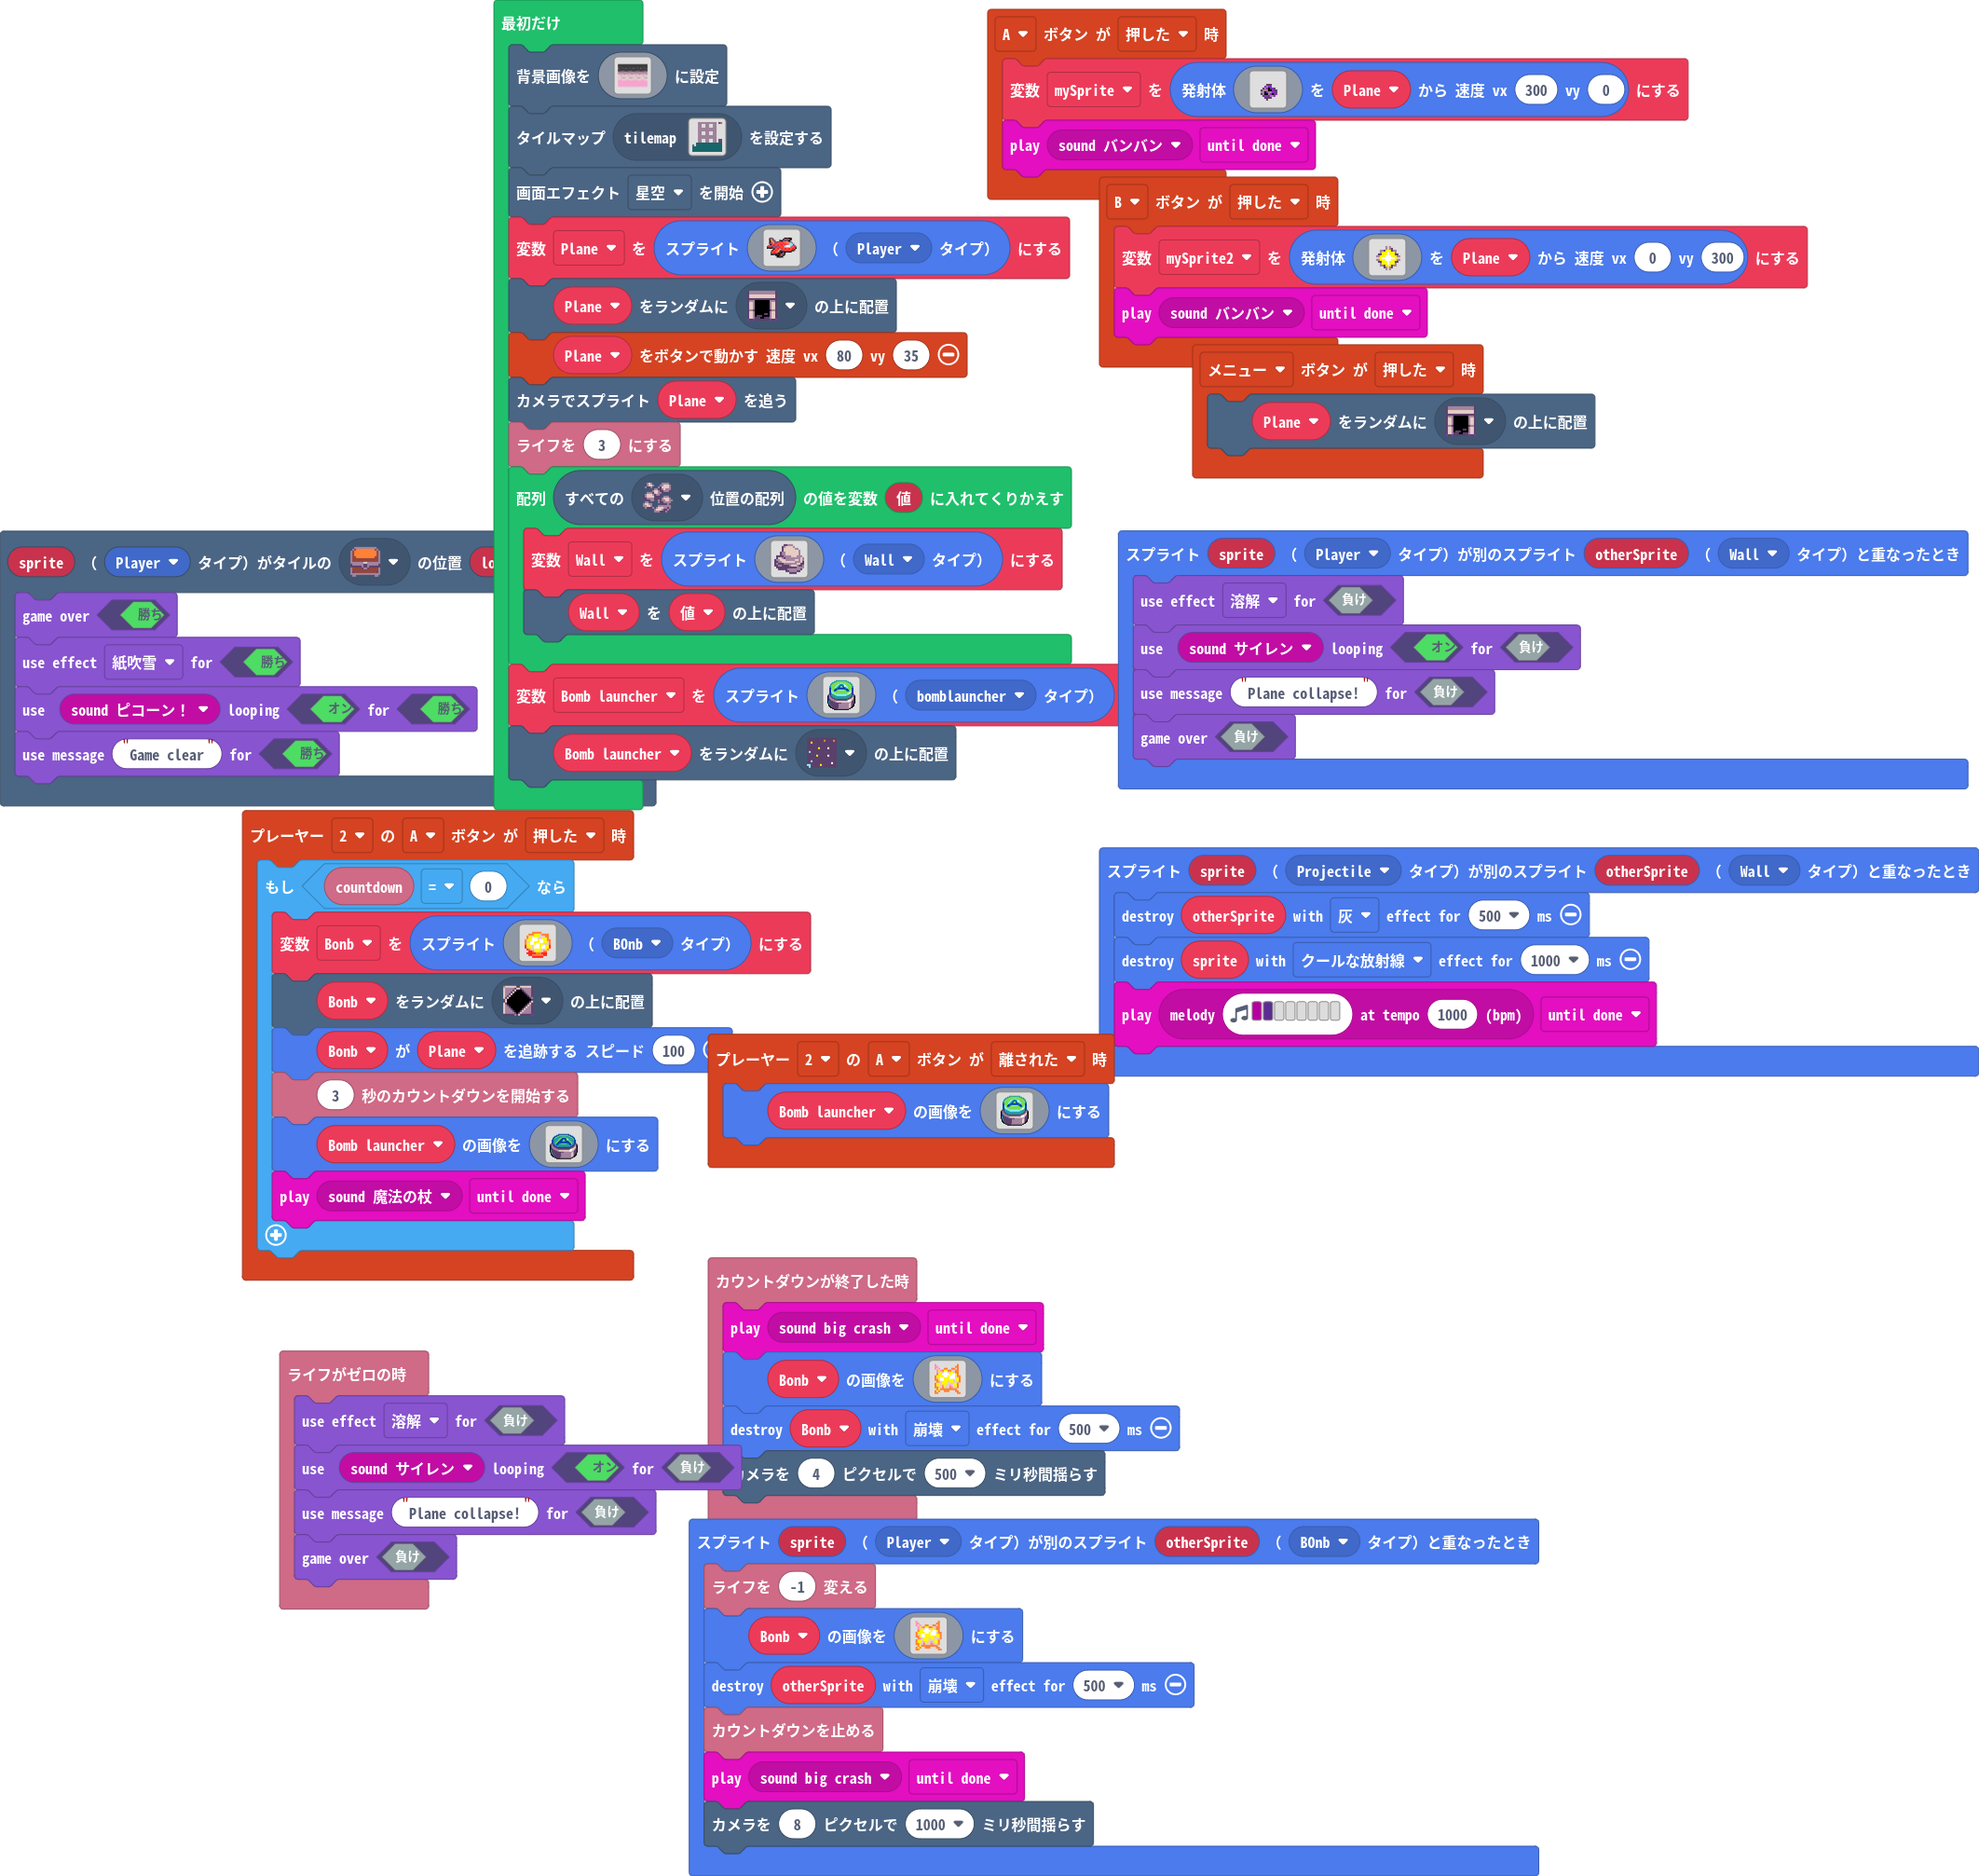
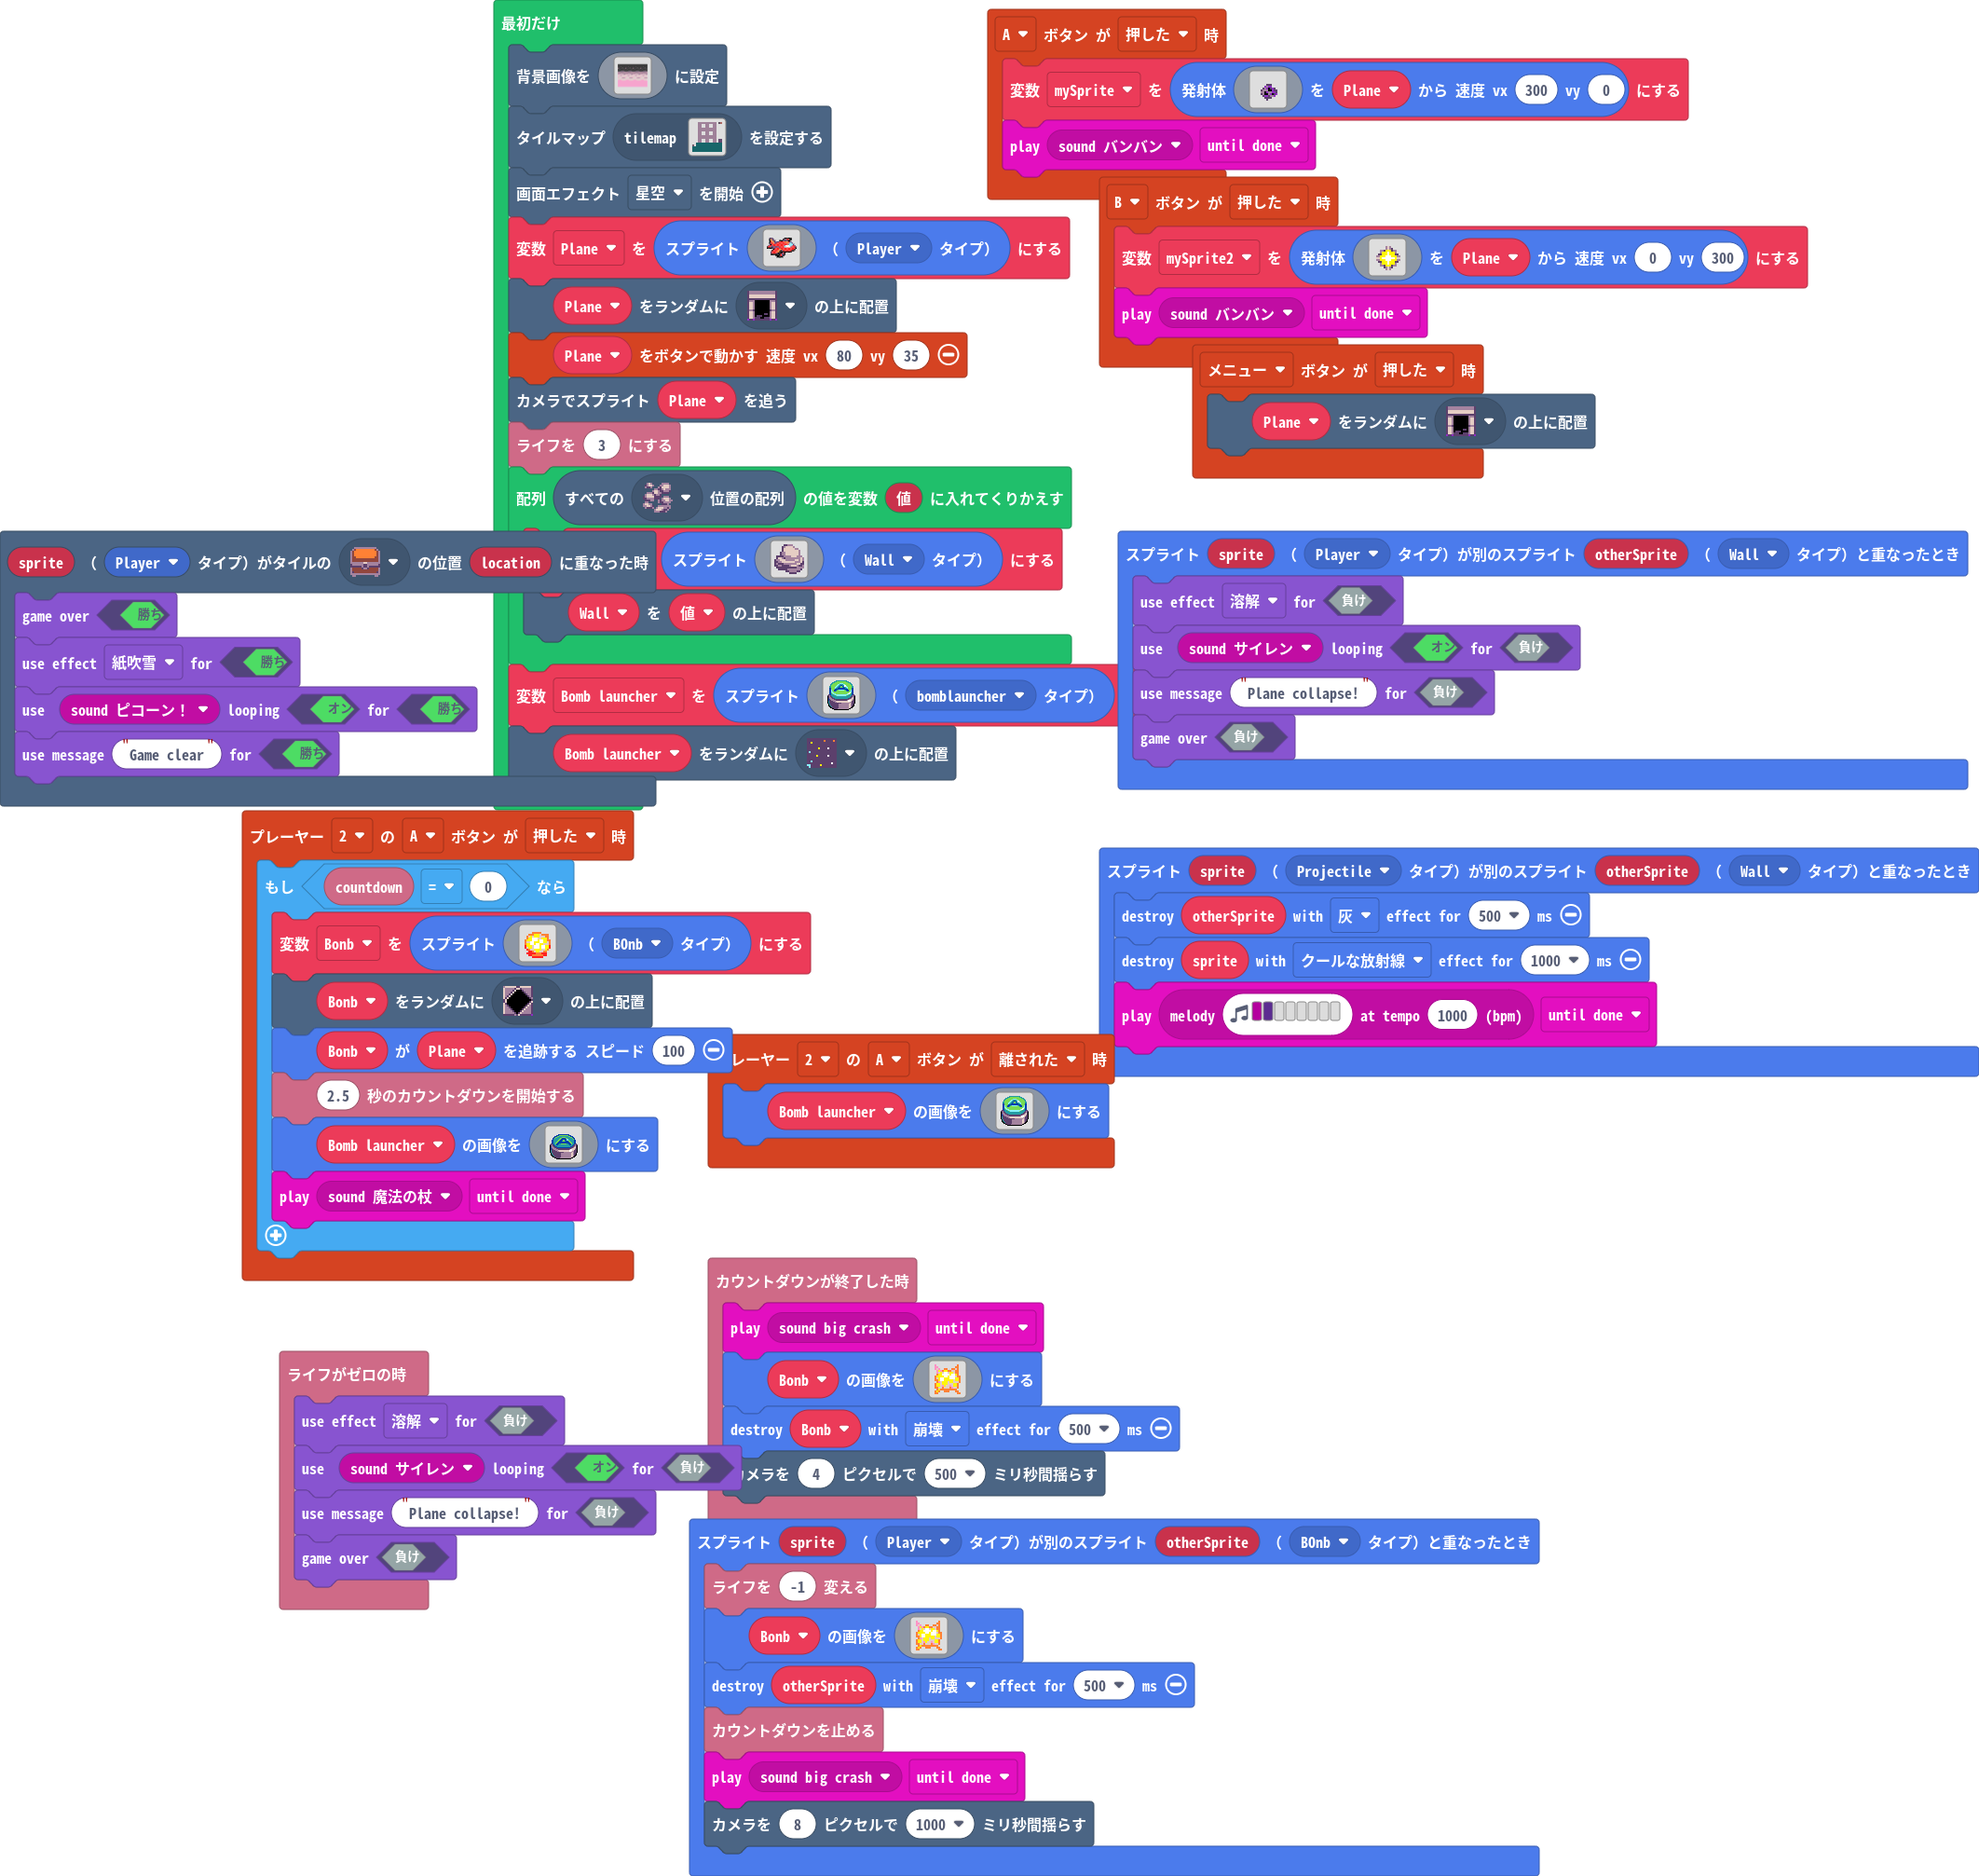
更新 main.blocks, main.ts

diff --git a/main.ts b/main.ts
@@ -25,7 +25,7 @@ controller.player2.onButtonEvent(ControllerButton.A, ControllerButtonEvent.Press
             `, SpriteKind.BOnb)
         tiles.placeOnRandomTile(Bonb, assets.tile`myTile4`)
         Bonb.follow(Plane, 100)
-        info.startCountdown(3)
+        info.startCountdown(2.5)
         Bomb_launcher.setImage(img`
             ................................
             ................................
